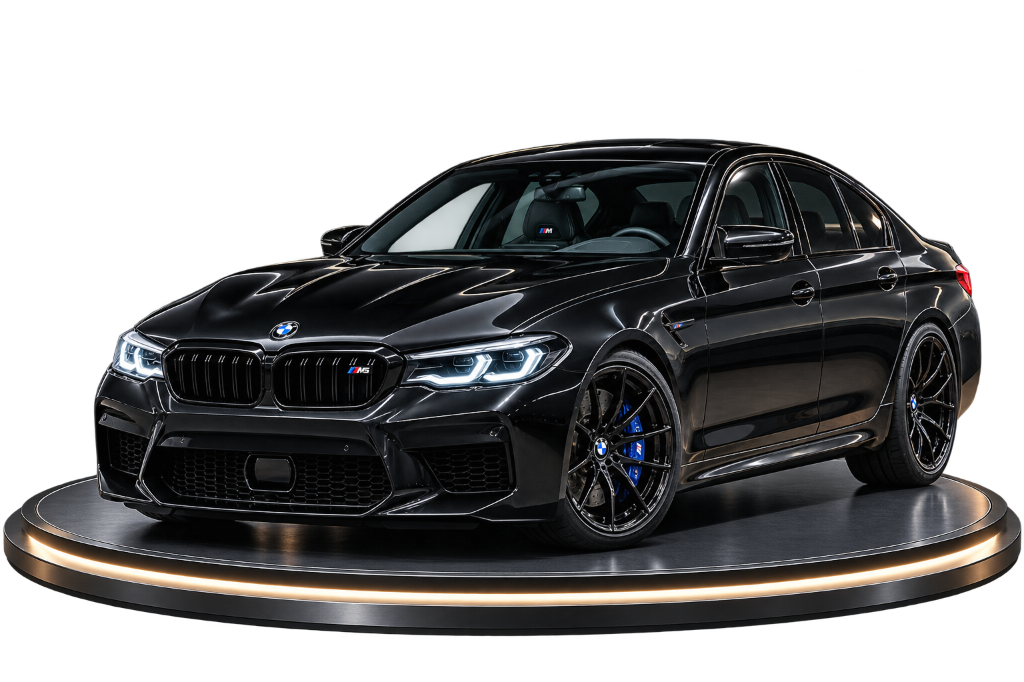
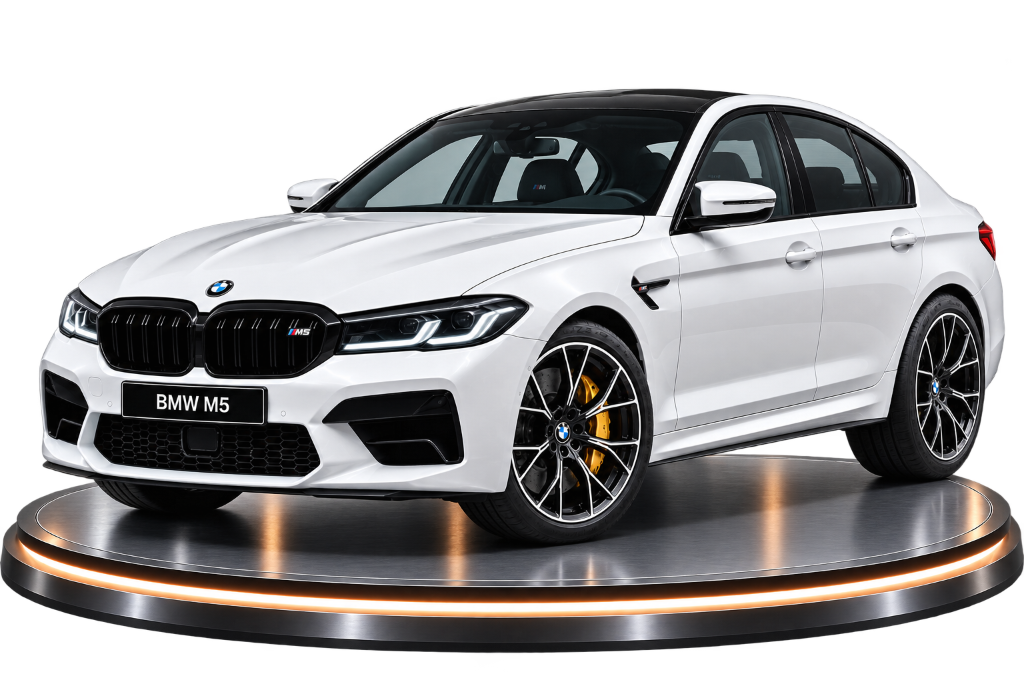
Update Models We Worked On with 5 white vehicles (Audi A4, Kia Seltos, VW Polo, White BMW M5, Mahindra Scorpio-N) and remove black car

diff --git a/index.html b/index.html
@@ -1508,7 +1508,7 @@
             <div class="flex items-center space-x-3">
               <!-- Current Slide Indicator -->
               <span id="project-slide-counter" class="font-mono text-xs font-bold text-tertiary px-3 py-1.5 rounded-full bg-surface-container border border-outline-variant/20">
-                01 / 02
+                01 / 05
               </span>
               
               <!-- Prev / Next Navigation Buttons -->
@@ -1531,19 +1531,40 @@
         <div id="project-carousel-container" class="relative w-full overflow-hidden py-4" style="overflow: hidden; position: relative; width: 100%;">
 
           <!-- Horizontal Revolving Sliding Track Container -->
-          <div id="project-carousel-track" class="project-carousel-track relative z-10" style="display: flex; flex-direction: row; flex-wrap: nowrap; width: 200%; transition: transform 0.8s cubic-bezier(0.25, 1, 0.5, 1); will-change: transform;">
+          <div id="project-carousel-track" class="project-carousel-track relative z-10" style="display: flex; flex-direction: row; flex-wrap: nowrap; width: 500%; transition: transform 0.8s cubic-bezier(0.25, 1, 0.5, 1); will-change: transform;">
 
             <!-- SLIDE 1: Mahindra Scorpio-N -->
-            <div class="featured-project-slide flex flex-col items-center justify-center px-2" data-project-idx="0" style="flex: 0 0 50%; min-width: 50%; max-width: 50%; width: 50%; box-sizing: border-box;">
+            <div class="featured-project-slide flex flex-col items-center justify-center px-2" data-project-idx="0" style="flex: 0 0 20%; min-width: 20%; max-width: 20%; width: 20%; box-sizing: border-box;">
               <div class="relative w-full max-w-5xl mx-auto flex items-center justify-center">
                 <img src="assets/projects/mahindra-scorpio-n.png" alt="Mahindra Scorpio-N - Models We Worked On" class="w-full h-auto max-h-[75vh] object-contain mx-auto transition-transform duration-700 hover:scale-[1.02] drop-shadow-2xl">
               </div>
             </div>
 
-            <!-- SLIDE 2: BMW M5 Competition -->
-            <div class="featured-project-slide flex flex-col items-center justify-center px-2" data-project-idx="1" style="flex: 0 0 50%; min-width: 50%; max-width: 50%; width: 50%; box-sizing: border-box;">
+            <!-- SLIDE 2: Audi A4 -->
+            <div class="featured-project-slide flex flex-col items-center justify-center px-2" data-project-idx="1" style="flex: 0 0 20%; min-width: 20%; max-width: 20%; width: 20%; box-sizing: border-box;">
               <div class="relative w-full max-w-5xl mx-auto flex items-center justify-center">
-                <img src="assets/projects/bmw-m5.png" alt="BMW M5 ///M Competition - Models We Worked On" class="w-full h-auto max-h-[75vh] object-contain mx-auto transition-transform duration-700 hover:scale-[1.02] drop-shadow-2xl">
+                <img src="assets/projects/audi-a4.png" alt="Audi A4 - Models We Worked On" class="w-full h-auto max-h-[75vh] object-contain mx-auto transition-transform duration-700 hover:scale-[1.02] drop-shadow-2xl">
+              </div>
+            </div>
+
+            <!-- SLIDE 3: Kia Seltos -->
+            <div class="featured-project-slide flex flex-col items-center justify-center px-2" data-project-idx="2" style="flex: 0 0 20%; min-width: 20%; max-width: 20%; width: 20%; box-sizing: border-box;">
+              <div class="relative w-full max-w-5xl mx-auto flex items-center justify-center">
+                <img src="assets/projects/kia-seltos.png" alt="Kia Seltos - Models We Worked On" class="w-full h-auto max-h-[75vh] object-contain mx-auto transition-transform duration-700 hover:scale-[1.02] drop-shadow-2xl">
+              </div>
+            </div>
+
+            <!-- SLIDE 4: Volkswagen Polo -->
+            <div class="featured-project-slide flex flex-col items-center justify-center px-2" data-project-idx="3" style="flex: 0 0 20%; min-width: 20%; max-width: 20%; width: 20%; box-sizing: border-box;">
+              <div class="relative w-full max-w-5xl mx-auto flex items-center justify-center">
+                <img src="assets/projects/vw-polo.png" alt="Volkswagen Polo - Models We Worked On" class="w-full h-auto max-h-[75vh] object-contain mx-auto transition-transform duration-700 hover:scale-[1.02] drop-shadow-2xl">
+              </div>
+            </div>
+
+            <!-- SLIDE 5: BMW M5 (White) -->
+            <div class="featured-project-slide flex flex-col items-center justify-center px-2" data-project-idx="4" style="flex: 0 0 20%; min-width: 20%; max-width: 20%; width: 20%; box-sizing: border-box;">
+              <div class="relative w-full max-w-5xl mx-auto flex items-center justify-center">
+                <img src="assets/projects/bmw-m5.png" alt="BMW M5 ///M - Models We Worked On" class="w-full h-auto max-h-[75vh] object-contain mx-auto transition-transform duration-700 hover:scale-[1.02] drop-shadow-2xl">
               </div>
             </div>
 
@@ -1557,6 +1578,18 @@
             <span>Mahindra Scorpio-N</span>
           </button>
           <button class="project-nav-pill px-4 py-2 rounded-full bg-surface-container border border-outline-variant/20 text-xs font-mono font-bold text-on-surface-variant hover:border-tertiary hover:text-tertiary flex items-center space-x-2 transition-all cursor-pointer" data-target-idx="1">
+            <span class="w-2 h-2 rounded-full bg-tertiary"></span>
+            <span>Audi A4</span>
+          </button>
+          <button class="project-nav-pill px-4 py-2 rounded-full bg-surface-container border border-outline-variant/20 text-xs font-mono font-bold text-on-surface-variant hover:border-tertiary hover:text-tertiary flex items-center space-x-2 transition-all cursor-pointer" data-target-idx="2">
+            <span class="w-2 h-2 rounded-full bg-tertiary"></span>
+            <span>Kia Seltos</span>
+          </button>
+          <button class="project-nav-pill px-4 py-2 rounded-full bg-surface-container border border-outline-variant/20 text-xs font-mono font-bold text-on-surface-variant hover:border-tertiary hover:text-tertiary flex items-center space-x-2 transition-all cursor-pointer" data-target-idx="3">
+            <span class="w-2 h-2 rounded-full bg-tertiary"></span>
+            <span>Volkswagen Polo</span>
+          </button>
+          <button class="project-nav-pill px-4 py-2 rounded-full bg-surface-container border border-outline-variant/20 text-xs font-mono font-bold text-on-surface-variant hover:border-tertiary hover:text-tertiary flex items-center space-x-2 transition-all cursor-pointer" data-target-idx="4">
             <span class="w-2 h-2 rounded-full bg-tertiary"></span>
             <span>BMW M5 ///M</span>
           </button>
